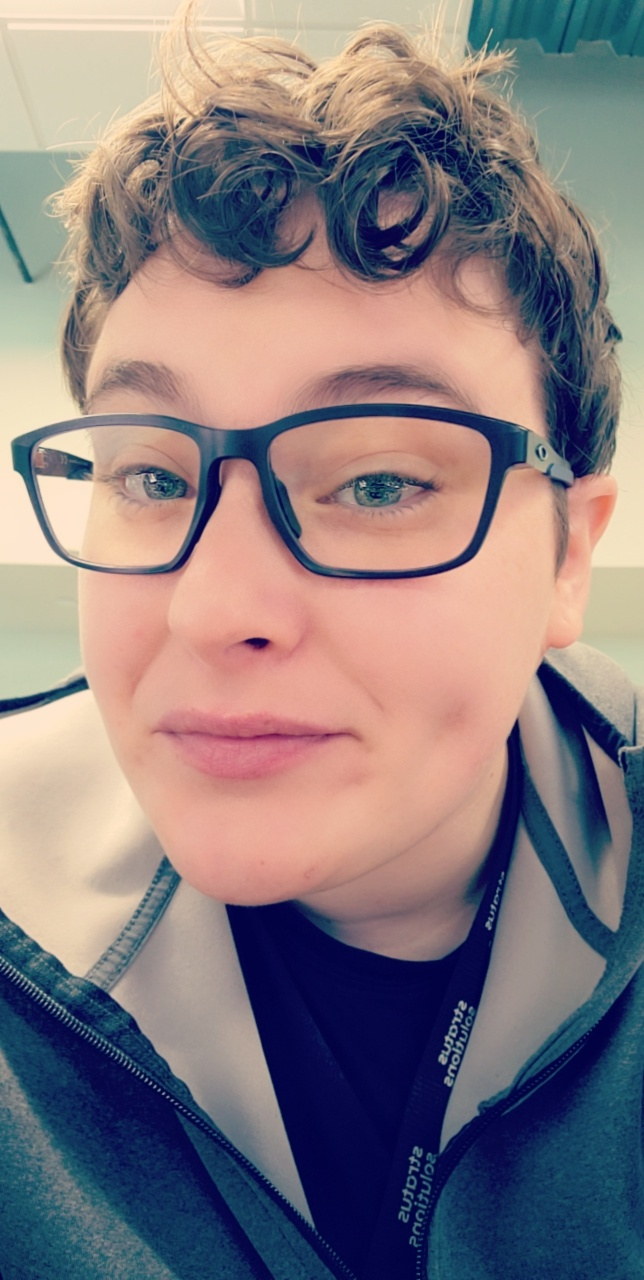
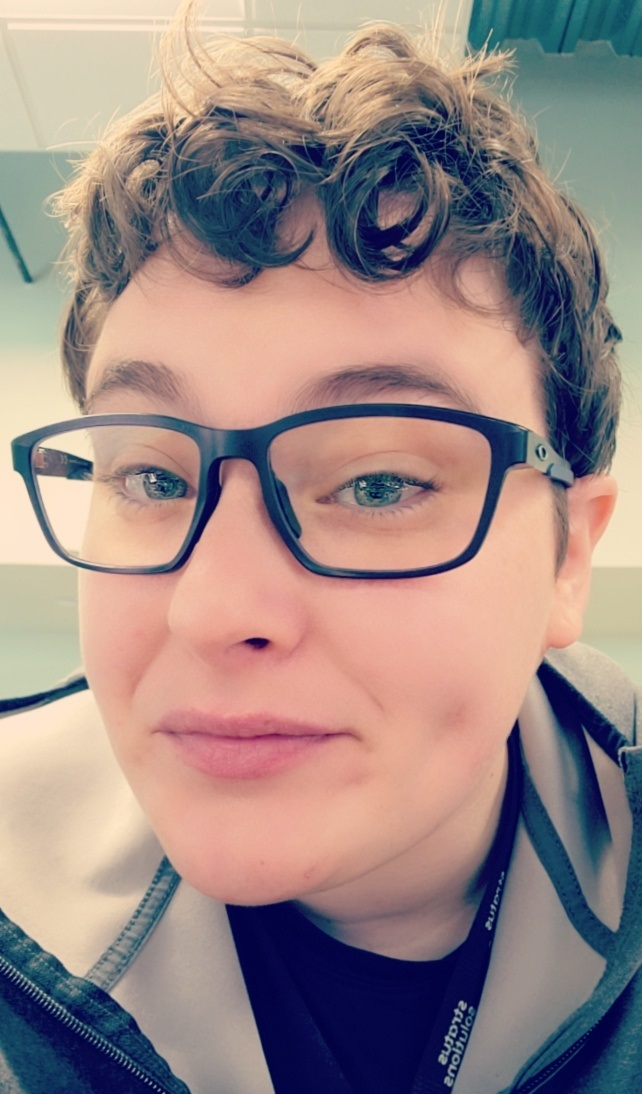
Updates

diff --git a/static/js/main.741c7bb6.chunk.js b/static/js/main.741c7bb6.chunk.js
@@ -1,0 +1,2 @@
+(this["webpackJsonpmeghann-dev-app"]=this["webpackJsonpmeghann-dev-app"]||[]).push([[0],{12:function(e,s,n){},14:function(e,s,n){"use strict";n.r(s);var c=n(1),t=n.n(c),a=n(7),i=n.n(a),r=(n(12),n(2)),l=n(3),o=n(5),j=n(4),m=n(0),h=function(e){Object(o.a)(n,e);var s=Object(j.a)(n);function n(){return Object(r.a)(this,n),s.apply(this,arguments)}return Object(l.a)(n,[{key:"render",value:function(){var e=this.props.resumeData;return Object(m.jsx)(t.a.Fragment,{children:Object(m.jsxs)("header",{id:"home",children:[Object(m.jsxs)("nav",{id:"nav-wrap",children:[Object(m.jsx)("a",{className:"mobile-btn",href:"#nav-wrap",title:"Show navigation",children:"Show navigation"}),Object(m.jsx)("a",{className:"mobile-btn",href:"#",title:"Hide navigation",children:"Hide navigation"}),Object(m.jsxs)("ul",{id:"nav",className:"nav",children:[Object(m.jsx)("li",{className:"current",children:Object(m.jsx)("a",{className:"smoothscroll",href:"#home",children:"Home"})}),Object(m.jsx)("li",{children:Object(m.jsx)("a",{className:"smoothscroll",href:"#about",children:"About"})}),Object(m.jsx)("li",{children:Object(m.jsx)("a",{className:"smoothscroll",href:"#resume",children:"Resume"})}),Object(m.jsx)("li",{children:Object(m.jsx)("a",{className:"smoothscroll",href:"#portfolio",children:"Projects"})}),Object(m.jsx)("li",{children:Object(m.jsx)("a",{className:"smoothscroll",href:"#contact",children:"Contact"})})]})]}),Object(m.jsx)("div",{className:"row banner",children:Object(m.jsxs)("div",{className:"banner-text",children:[Object(m.jsx)("h1",{className:"responsive-headline",children:e.name}),Object(m.jsxs)("h3",{style:{color:"#fff",fontFamily:"sans-serif "},children:[e.role,".",e.roleDescription]}),Object(m.jsx)("hr",{}),Object(m.jsx)("ul",{className:"social",children:e.socialLinks&&e.socialLinks.map((function(e){return Object(m.jsx)("li",{children:Object(m.jsx)("a",{href:e.url,target:"",children:Object(m.jsx)("i",{className:e.className})})},e.name)}))})]})}),Object(m.jsx)("p",{className:"scrolldown",children:Object(m.jsx)("a",{className:"smoothscroll",href:"#about",children:Object(m.jsx)("i",{className:"icon-down-circle"})})})]})})}}]),n}(c.Component),d=function(e){Object(o.a)(n,e);var s=Object(j.a)(n);function n(){return Object(r.a)(this,n),s.apply(this,arguments)}return Object(l.a)(n,[{key:"render",value:function(){var e=this.props.resumeData;return Object(m.jsx)("div",{children:Object(m.jsx)("section",{id:"about",children:Object(m.jsxs)("div",{className:"row",children:[Object(m.jsx)("div",{className:"three columns",children:Object(m.jsx)("img",{className:"profile-pic",src:"images/Snapchat-435441263.jpg",alt:"Meghann Cunningham"})}),Object(m.jsxs)("div",{className:"nine columns main-col",children:[Object(m.jsx)("h2",{children:"About Me"}),Object(m.jsx)("p",{children:e.aboutme}),Object(m.jsx)("div",{className:"row",children:Object(m.jsxs)("div",{className:"columns contact-details",children:[Object(m.jsx)("h2",{children:"Contact Details"}),Object(m.jsxs)("p",{className:"address",children:[Object(m.jsx)("span",{children:e.name}),Object(m.jsx)("br",{}),Object(m.jsx)("span",{children:e.address}),Object(m.jsx)("br",{}),Object(m.jsx)("a",{href:"mailto:"+e.email,children:e.email})]})]})})]})]})})})}}]),n}(c.Component),b=function(e){Object(o.a)(n,e);var s=Object(j.a)(n);function n(){return Object(r.a)(this,n),s.apply(this,arguments)}return Object(l.a)(n,[{key:"render",value:function(){var e=this.props.resumeData;return Object(m.jsxs)("section",{id:"resume",children:[Object(m.jsxs)("div",{className:"row education",children:[Object(m.jsx)("div",{className:"three columns header-col",children:Object(m.jsx)("h1",{children:Object(m.jsx)("span",{children:"Education"})})}),Object(m.jsx)("div",{className:"nine columns main-col",children:e.education&&e.education.map((function(e){return Object(m.jsx)("div",{className:"row item",children:Object(m.jsxs)("div",{className:"twelve columns",children:[Object(m.jsx)("h3",{children:e.UniversityName}),Object(m.jsxs)("p",{className:"info",children:[e.specialization,Object(m.jsx)("span",{children:"\u2022"})," ",Object(m.jsxs)("em",{className:"date",children:[e.MonthOfPassing," ",e.YearOfPassing]})]}),Object(m.jsx)("p",{children:e.Achievements})]})})}))})]}),Object(m.jsxs)("div",{className:"row work",children:[Object(m.jsx)("div",{className:"three columns header-col",children:Object(m.jsx)("h1",{children:Object(m.jsx)("span",{children:"Work"})})}),Object(m.jsx)("div",{className:"nine columns main-col",children:e.work&&e.work.map((function(e){return Object(m.jsx)("div",{className:"row item",children:Object(m.jsxs)("div",{className:"twelve columns",children:[Object(m.jsx)("h3",{children:e.CompanyName}),Object(m.jsxs)("p",{className:"info",children:[e.specialization,Object(m.jsx)("span",{children:"\u2022"})," ",Object(m.jsxs)("em",{className:"date",children:[e.MonthOfLeaving," ",e.YearOfLeaving]})]}),Object(m.jsx)("p",{children:e.Achievements})]})})}))})]}),Object(m.jsxs)("div",{className:"row skill",children:[Object(m.jsx)("div",{className:"three columns header-col",children:Object(m.jsx)("h1",{children:Object(m.jsx)("span",{children:"Skills"})})}),Object(m.jsxs)("div",{className:"nine columns main-col",children:[Object(m.jsx)("p",{children:e.skillsDescription}),Object(m.jsx)("ul",{className:"skills",children:e.skills&&e.skills.map((function(e){return Object(m.jsx)("li",{children:Object(m.jsx)("em",{children:e.skillname})})}))})]})]})]})}}]),n}(c.Component),O=function(e){Object(o.a)(n,e);var s=Object(j.a)(n);function n(){return Object(r.a)(this,n),s.apply(this,arguments)}return Object(l.a)(n,[{key:"render",value:function(){var e=this.props.resumeData;return Object(m.jsx)("section",{id:"portfolio",children:Object(m.jsx)("div",{className:"row",children:Object(m.jsxs)("div",{className:"twelve columns collapsed",children:[Object(m.jsx)("h1",{children:"Check Out Some of My Work"}),Object(m.jsx)("div",{id:"portfolio-wrapper",className:"bgrid-quarters s-bgrid-thirds cf",alt:"",children:e.portfolio&&e.portfolio.map((function(e){return Object(m.jsx)("div",{className:"columns portfolio-item",children:Object(m.jsx)("div",{className:"item-wrap",children:Object(m.jsxs)("a",{href:"https://github.com/M3GH4NN/hypetrain",children:[Object(m.jsx)("img",{src:"".concat(e.imgurl),className:"item-img"}),Object(m.jsx)("div",{className:"overlay",children:Object(m.jsxs)("div",{className:"portfolio-item-meta",children:[Object(m.jsx)("h5",{children:e.name}),Object(m.jsx)("p",{children:e.description})]})})]})})})}))})]})})})}}]),n}(c.Component),u=function(e){Object(o.a)(n,e);var s=Object(j.a)(n);function n(){return Object(r.a)(this,n),s.apply(this,arguments)}return Object(l.a)(n,[{key:"render",value:function(){var e=this.props.resumeData;return Object(m.jsxs)("section",{id:"contact",children:[Object(m.jsx)("div",{className:"row section-head",children:Object(m.jsx)("div",{className:"ten columns",children:Object(m.jsxs)("p",{className:"lead",children:["Feel free to contact me at ",Object(m.jsx)("a",{href:"mailto:"+e.email,children:e.email})]})})}),Object(m.jsx)("div",{className:"row",children:Object(m.jsx)("aside",{className:"eigth columns footer-widgets",children:Object(m.jsx)("div",{className:"widget",children:Object(m.jsx)("h4",{children:e.linkedinId})})})})]})}}]),n}(c.Component),p=function(e){Object(o.a)(n,e);var s=Object(j.a)(n);function n(){return Object(r.a)(this,n),s.apply(this,arguments)}return Object(l.a)(n,[{key:"render",value:function(){var e=this.props.resumeData;return Object(m.jsx)("footer",{children:Object(m.jsxs)("div",{className:"row",children:[Object(m.jsx)("div",{className:"twelve columns",children:Object(m.jsx)("ul",{className:"social-links",children:e.socialLinks&&e.socialLinks.map((function(e){return Object(m.jsx)("li",{children:Object(m.jsx)("a",{href:e.url,children:Object(m.jsx)("i",{className:e.className})})})}))})}),Object(m.jsx)("div",{id:"go-top",children:Object(m.jsx)("a",{className:"smoothscroll",title:"Back to Top",href:"#home",children:Object(m.jsx)("i",{className:"icon-up-open"})})})]})})}}]),n}(c.Component),x={imagebaseurl:"https://ivy555.github.io/",name:"Meghann Cunningham",role:"DevOps Engineer in the Fulton, MD area",linkedinId:"",skypeid:"",roleDescription:" ",socialLinks:[{name:"linkedin",url:"https://www.linkedin.com/in/meghann-cunningham-239b5a4b/",className:"fa fa-linkedin"},{name:"github",url:"https://github.com/M3GH4NN",className:"fa fa-github"}],aboutme:"I am currently a DevOps engineer for a Cloud Service Provider in Fulton, MD. On my current contract I am the sole DevOps engineer for a small team working on a video game. My duties include: maintaining the GitLab pipelines, creating the game's web application, maintaining all game-related infrastructure, and helping out with game design/development.",address:"Columbia, MD",email:"mc@meghann.dev",education:[{UniversityName:"SUNY Empire State College",specialization:"B.S., Computer Science",MonthOfPassing:"Graduated April",YearOfPassing:"2020"},{UniversityName:"University of Rochester",specialization:"B.A., American Sign Language",MonthOfPassing:"Graduated December",YearOfPassing:"2012"}],work:[{CompanyName:"Applied Insight/Stratus Solutions",specialization:"DevOps Engineer",MonthOfLeaving:"September",YearOfLeaving:"2019 to Current",Achievements:"Software development, Web development (Full Stack)"},{CompanyName:"Applied Insight/Stratus Solutions",specialization:"DevOps Engineer Intern",MonthOfLeaving:"June",YearOfLeaving:"2019 to August 2019",Achievements:"Worked on a project to create networking automation tools within AWS."},{CompanyName:"Sign Language Connection, Inc.",specialization:"Office Manager",MonthOfLeaving:"January",YearOfLeaving:"2013 to September 2019",Achievements:""}],skillsDescription:"",skills:[{skillname:"AWS"},{skillname:"Python"},{skillname:"HTML5"},{skillname:"CSS"},{skillname:"Reactjs"},{skillname:"Golang"},{skillname:"Terraform"}],portfolio:[{name:"HypeTrain",description:"game release tracker",imgurl:"images/portfolio/project.jpg"}],testimonials:[{description:"This is a sample testimonial",name:"Some technical guy"},{description:"This is a sample testimonial",name:"Some technical guy"}]},v=function(e){Object(o.a)(n,e);var s=Object(j.a)(n);function n(){return Object(r.a)(this,n),s.apply(this,arguments)}return Object(l.a)(n,[{key:"render",value:function(){return Object(m.jsxs)("div",{className:"App",children:[Object(m.jsx)(h,{resumeData:x}),Object(m.jsx)(d,{resumeData:x}),Object(m.jsx)(b,{resumeData:x}),Object(m.jsx)(O,{resumeData:x}),Object(m.jsx)(u,{resumeData:x}),Object(m.jsx)(p,{resumeData:x})]})}}]),n}(c.Component),f=function(e){e&&e instanceof Function&&n.e(3).then(n.bind(null,15)).then((function(s){var n=s.getCLS,c=s.getFID,t=s.getFCP,a=s.getLCP,i=s.getTTFB;n(e),c(e),t(e),a(e),i(e)}))};i.a.render(Object(m.jsx)(t.a.StrictMode,{children:Object(m.jsx)(v,{})}),document.getElementById("root")),f()}},[[14,1,2]]]);
+//# sourceMappingURL=main.741c7bb6.chunk.js.map

diff --git a/index.html b/index.html
@@ -1,1 +1,1 @@
-<!doctype html><html lang="en"><head><meta charset="utf-8"><link rel="shortcut icon" href="/favicon.ico"><meta name="viewport" content="width=device-width,initial-scale=1,shrink-to-fit=no"><meta name="theme-color" content="#000000"><link rel="manifest" href="/manifest.json"><title>Meghann Cunningham - DevOps Engineer</title><link rel="stylesheet" href="/css/default.css"><link rel="stylesheet" href="/css/layout.css"><link rel="stylesheet" href="/css/media-queries.css"><link rel="stylesheet" href="/css/magnific-popup.css"><script src="/js/modernizr.js"></script><title>Sample resume</title><link href="/static/css/main.2ae47eeb.chunk.css" rel="stylesheet"></head><body><noscript>You need to enable JavaScript to run this app.</noscript><div id="root"></div><script src="http://ajax.googleapis.com/ajax/libs/jquery/1.10.2/jquery.min.js"></script><script>window.jQuery||document.write('<script src="js/jquery-1.10.2.min.js"><\/script>')</script><script type="text/javascript" src="js/jquery-migrate-1.2.1.min.js"></script><script src="js/jquery.flexslider.js"></script><script src="js/waypoints.js"></script><script src="js/jquery.fittext.js"></script><script src="js/magnific-popup.js"></script><script src="js/init.js"></script><script>!function(e){function r(r){for(var n,a,i=r[0],c=r[1],l=r[2],p=0,s=[];p<i.length;p++)a=i[p],Object.prototype.hasOwnProperty.call(o,a)&&o[a]&&s.push(o[a][0]),o[a]=0;for(n in c)Object.prototype.hasOwnProperty.call(c,n)&&(e[n]=c[n]);for(f&&f(r);s.length;)s.shift()();return u.push.apply(u,l||[]),t()}function t(){for(var e,r=0;r<u.length;r++){for(var t=u[r],n=!0,i=1;i<t.length;i++){var c=t[i];0!==o[c]&&(n=!1)}n&&(u.splice(r--,1),e=a(a.s=t[0]))}return e}var n={},o={1:0},u=[];function a(r){if(n[r])return n[r].exports;var t=n[r]={i:r,l:!1,exports:{}};return e[r].call(t.exports,t,t.exports,a),t.l=!0,t.exports}a.e=function(e){var r=[],t=o[e];if(0!==t)if(t)r.push(t[2]);else{var n=new Promise((function(r,n){t=o[e]=[r,n]}));r.push(t[2]=n);var u,i=document.createElement("script");i.charset="utf-8",i.timeout=120,a.nc&&i.setAttribute("nonce",a.nc),i.src=function(e){return a.p+"static/js/"+({}[e]||e)+"."+{3:"95c36fa3"}[e]+".chunk.js"}(e);var c=new Error;u=function(r){i.onerror=i.onload=null,clearTimeout(l);var t=o[e];if(0!==t){if(t){var n=r&&("load"===r.type?"missing":r.type),u=r&&r.target&&r.target.src;c.message="Loading chunk "+e+" failed.\n("+n+": "+u+")",c.name="ChunkLoadError",c.type=n,c.request=u,t[1](c)}o[e]=void 0}};var l=setTimeout((function(){u({type:"timeout",target:i})}),12e4);i.onerror=i.onload=u,document.head.appendChild(i)}return Promise.all(r)},a.m=e,a.c=n,a.d=function(e,r,t){a.o(e,r)||Object.defineProperty(e,r,{enumerable:!0,get:t})},a.r=function(e){"undefined"!=typeof Symbol&&Symbol.toStringTag&&Object.defineProperty(e,Symbol.toStringTag,{value:"Module"}),Object.defineProperty(e,"__esModule",{value:!0})},a.t=function(e,r){if(1&r&&(e=a(e)),8&r)return e;if(4&r&&"object"==typeof e&&e&&e.__esModule)return e;var t=Object.create(null);if(a.r(t),Object.defineProperty(t,"default",{enumerable:!0,value:e}),2&r&&"string"!=typeof e)for(var n in e)a.d(t,n,function(r){return e[r]}.bind(null,n));return t},a.n=function(e){var r=e&&e.__esModule?function(){return e.default}:function(){return e};return a.d(r,"a",r),r},a.o=function(e,r){return Object.prototype.hasOwnProperty.call(e,r)},a.p="/",a.oe=function(e){throw console.error(e),e};var i=this["webpackJsonpmeghann-dev-app"]=this["webpackJsonpmeghann-dev-app"]||[],c=i.push.bind(i);i.push=r,i=i.slice();for(var l=0;l<i.length;l++)r(i[l]);var f=c;t()}([])</script><script src="/static/js/2.2ddeb37c.chunk.js"></script><script src="/static/js/main.766c6105.chunk.js"></script></body></html>
+<!doctype html><html lang="en"><head><meta charset="utf-8"><link rel="shortcut icon" href="/favicon.ico"><meta name="viewport" content="width=device-width,initial-scale=1,shrink-to-fit=no"><meta name="theme-color" content="#000000"><link rel="manifest" href="/manifest.json"><title>Meghann Cunningham - DevOps Engineer</title><link rel="stylesheet" href="/css/default.css"><link rel="stylesheet" href="/css/layout.css"><link rel="stylesheet" href="/css/media-queries.css"><link rel="stylesheet" href="/css/magnific-popup.css"><script src="/js/modernizr.js"></script><title>Sample resume</title><link href="/static/css/main.2ae47eeb.chunk.css" rel="stylesheet"></head><body><noscript>You need to enable JavaScript to run this app.</noscript><div id="root"></div><script src="http://ajax.googleapis.com/ajax/libs/jquery/1.10.2/jquery.min.js"></script><script>window.jQuery||document.write('<script src="js/jquery-1.10.2.min.js"><\/script>')</script><script type="text/javascript" src="js/jquery-migrate-1.2.1.min.js"></script><script src="js/jquery.flexslider.js"></script><script src="js/waypoints.js"></script><script src="js/jquery.fittext.js"></script><script src="js/magnific-popup.js"></script><script src="js/init.js"></script><script>!function(e){function r(r){for(var n,a,i=r[0],c=r[1],l=r[2],p=0,s=[];p<i.length;p++)a=i[p],Object.prototype.hasOwnProperty.call(o,a)&&o[a]&&s.push(o[a][0]),o[a]=0;for(n in c)Object.prototype.hasOwnProperty.call(c,n)&&(e[n]=c[n]);for(f&&f(r);s.length;)s.shift()();return u.push.apply(u,l||[]),t()}function t(){for(var e,r=0;r<u.length;r++){for(var t=u[r],n=!0,i=1;i<t.length;i++){var c=t[i];0!==o[c]&&(n=!1)}n&&(u.splice(r--,1),e=a(a.s=t[0]))}return e}var n={},o={1:0},u=[];function a(r){if(n[r])return n[r].exports;var t=n[r]={i:r,l:!1,exports:{}};return e[r].call(t.exports,t,t.exports,a),t.l=!0,t.exports}a.e=function(e){var r=[],t=o[e];if(0!==t)if(t)r.push(t[2]);else{var n=new Promise((function(r,n){t=o[e]=[r,n]}));r.push(t[2]=n);var u,i=document.createElement("script");i.charset="utf-8",i.timeout=120,a.nc&&i.setAttribute("nonce",a.nc),i.src=function(e){return a.p+"static/js/"+({}[e]||e)+"."+{3:"95c36fa3"}[e]+".chunk.js"}(e);var c=new Error;u=function(r){i.onerror=i.onload=null,clearTimeout(l);var t=o[e];if(0!==t){if(t){var n=r&&("load"===r.type?"missing":r.type),u=r&&r.target&&r.target.src;c.message="Loading chunk "+e+" failed.\n("+n+": "+u+")",c.name="ChunkLoadError",c.type=n,c.request=u,t[1](c)}o[e]=void 0}};var l=setTimeout((function(){u({type:"timeout",target:i})}),12e4);i.onerror=i.onload=u,document.head.appendChild(i)}return Promise.all(r)},a.m=e,a.c=n,a.d=function(e,r,t){a.o(e,r)||Object.defineProperty(e,r,{enumerable:!0,get:t})},a.r=function(e){"undefined"!=typeof Symbol&&Symbol.toStringTag&&Object.defineProperty(e,Symbol.toStringTag,{value:"Module"}),Object.defineProperty(e,"__esModule",{value:!0})},a.t=function(e,r){if(1&r&&(e=a(e)),8&r)return e;if(4&r&&"object"==typeof e&&e&&e.__esModule)return e;var t=Object.create(null);if(a.r(t),Object.defineProperty(t,"default",{enumerable:!0,value:e}),2&r&&"string"!=typeof e)for(var n in e)a.d(t,n,function(r){return e[r]}.bind(null,n));return t},a.n=function(e){var r=e&&e.__esModule?function(){return e.default}:function(){return e};return a.d(r,"a",r),r},a.o=function(e,r){return Object.prototype.hasOwnProperty.call(e,r)},a.p="/",a.oe=function(e){throw console.error(e),e};var i=this["webpackJsonpmeghann-dev-app"]=this["webpackJsonpmeghann-dev-app"]||[],c=i.push.bind(i);i.push=r,i=i.slice();for(var l=0;l<i.length;l++)r(i[l]);var f=c;t()}([])</script><script src="/static/js/2.2ddeb37c.chunk.js"></script><script src="/static/js/main.741c7bb6.chunk.js"></script></body></html>

diff --git a/css/layout.css b/css/layout.css
@@ -207,8 +207,8 @@ ul#nav li.current a { color: #F06000; }
 }
 #about .profile-pic {
    position: relative;
-   width: 180px;
-   height: 230px;
+   width: 720px;
+   height: 350px;
    border-radius: 20%;
 }
 #about .contact-details { width: 41.66667%; }
